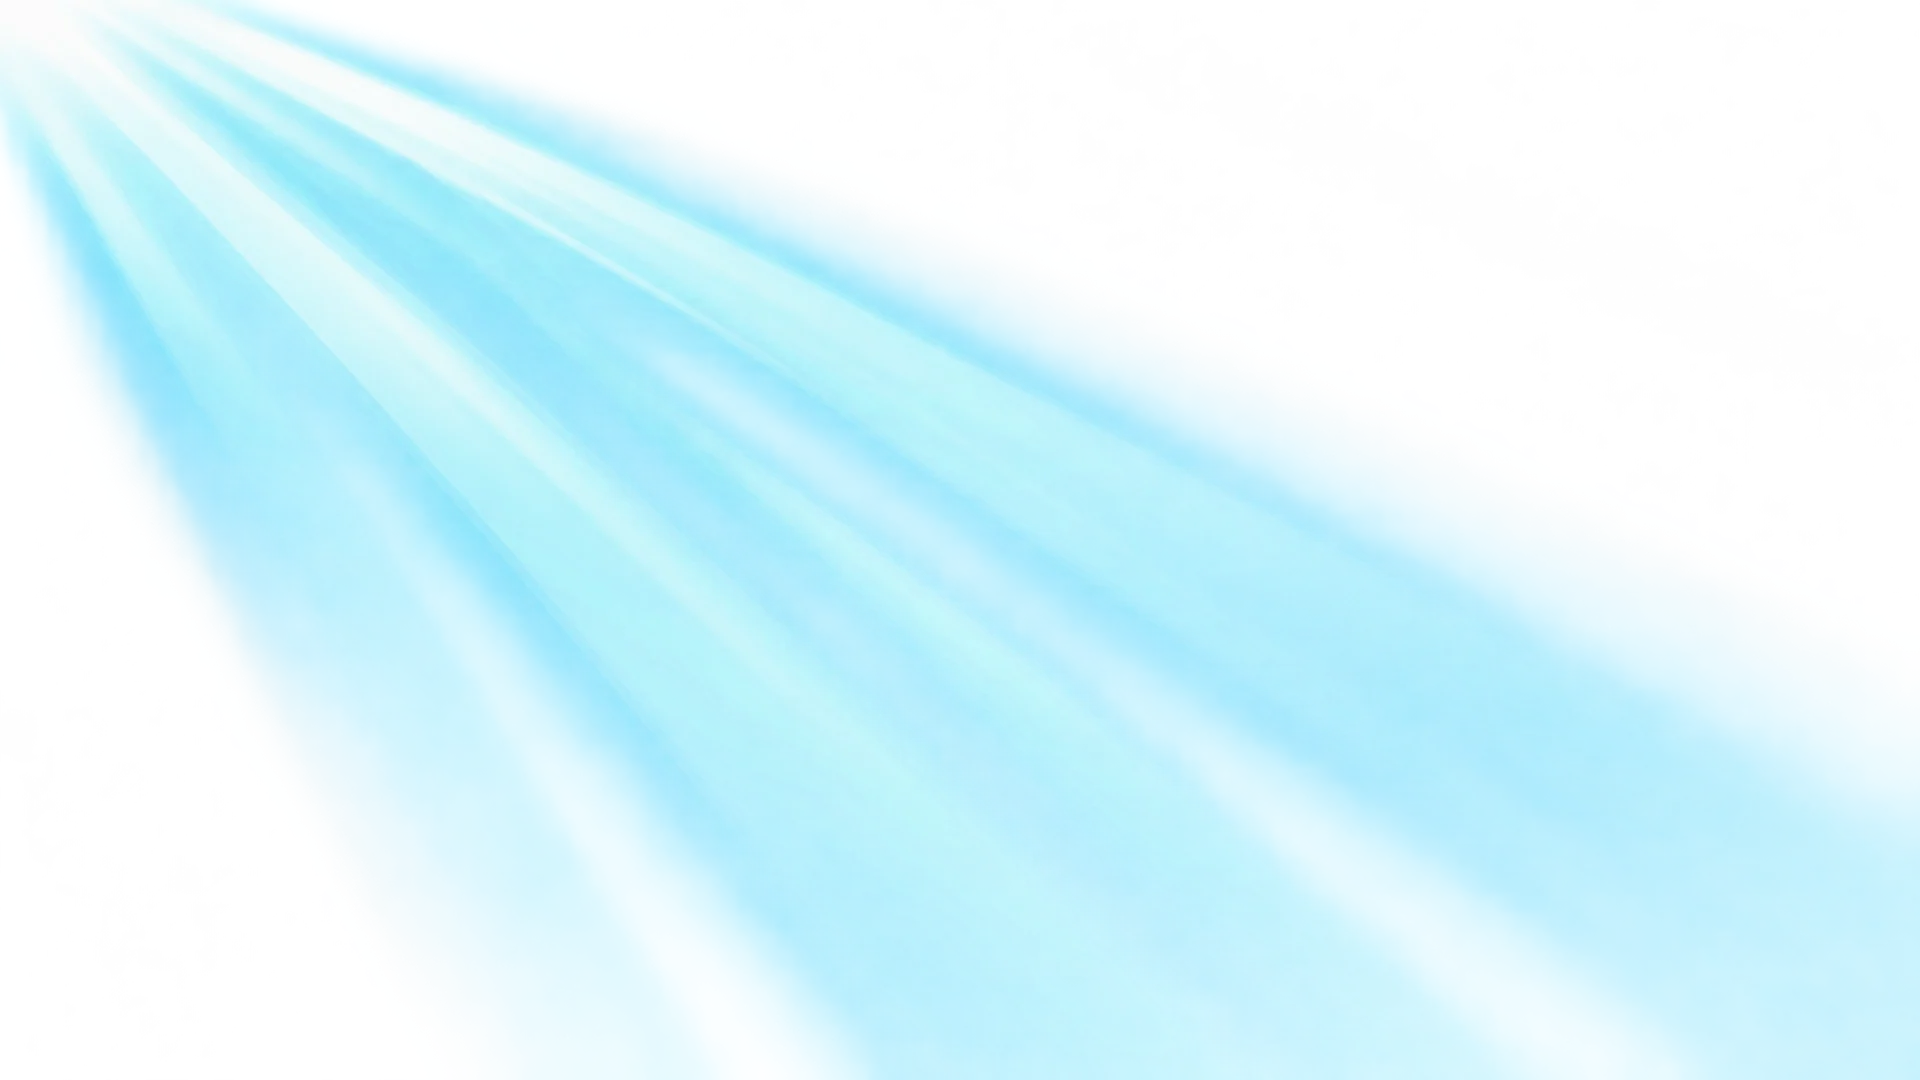
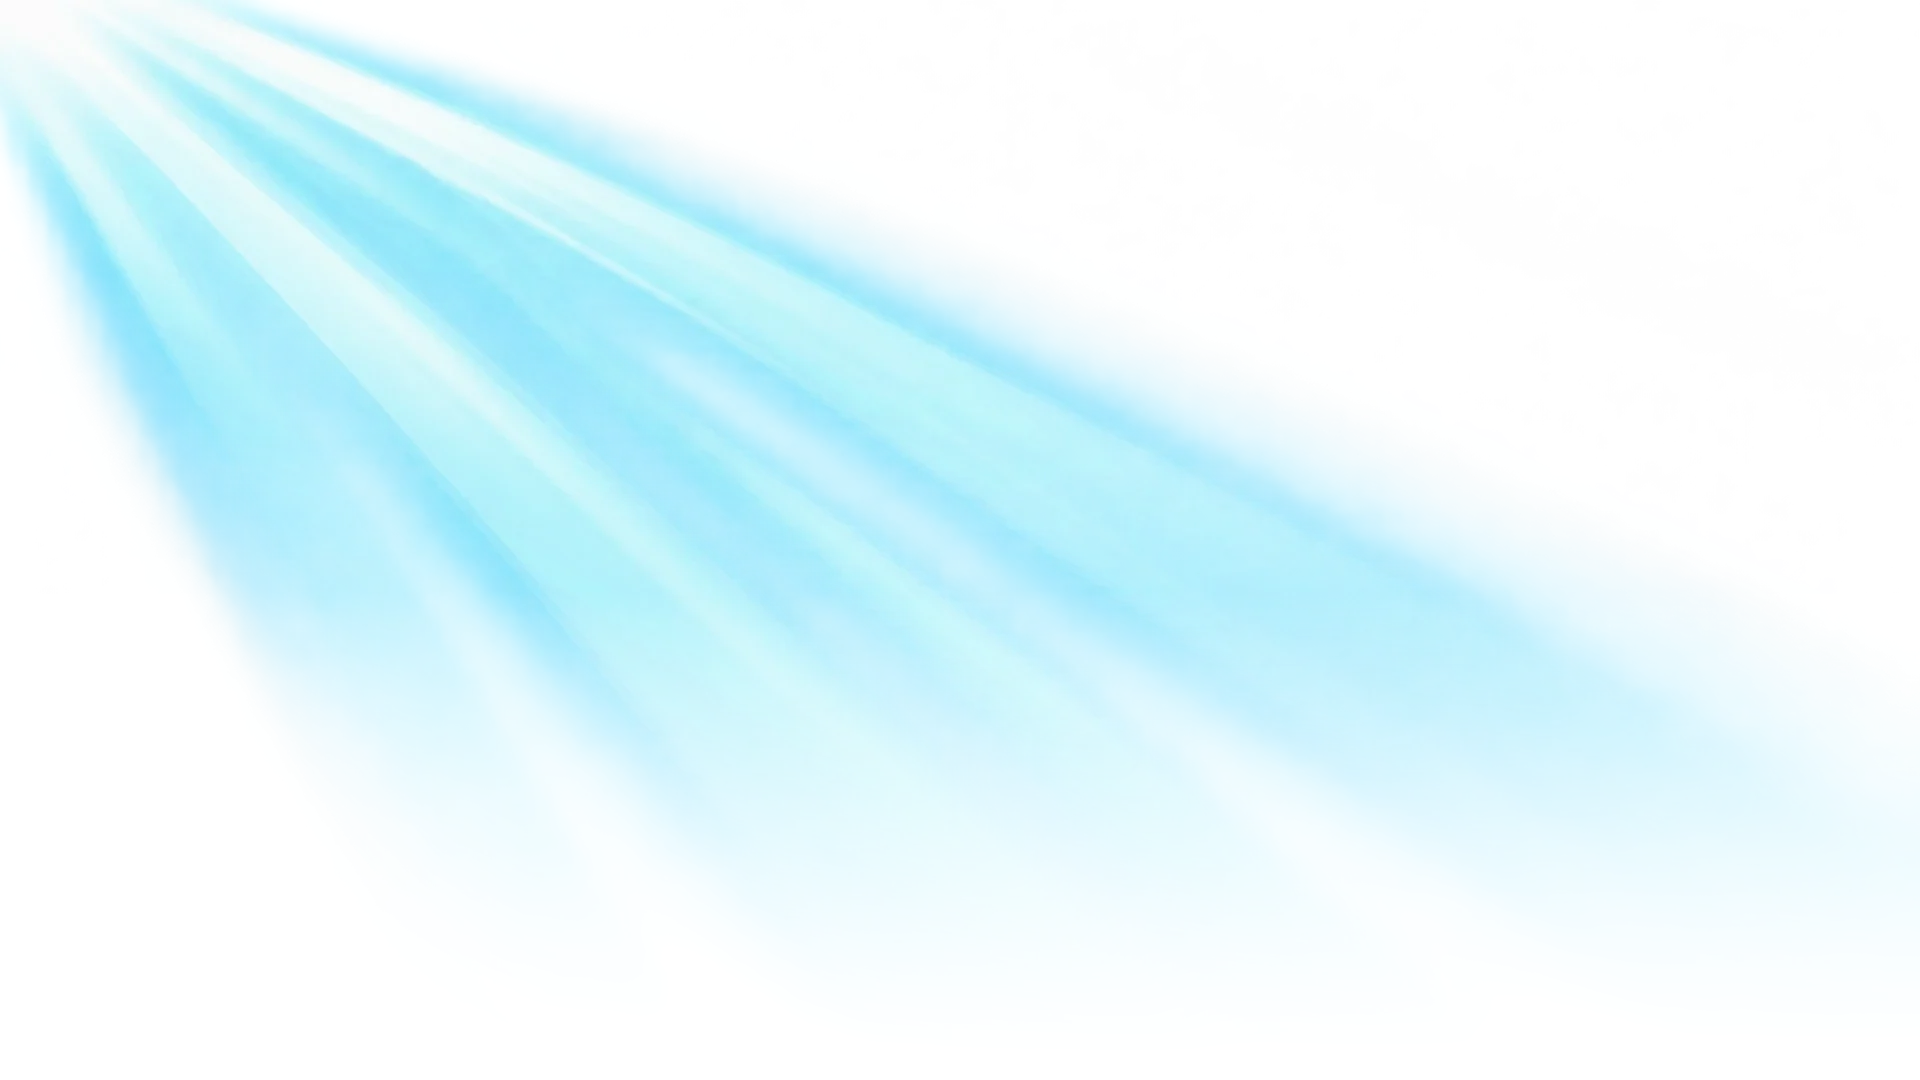
Soften the rays' hard bottom edge; dialogue box 10% smaller
The sun-rays layer ended in a straight line at y 860 once it stopped
blending; its lower 45% now fades out inside rays.webp. The gameplay
dialogue box frame, padding, tail and max width are 10% smaller (text stays
Poppins SemiBold 32).

Changed region(s): [[0.25, 0.6111, 1.0, 1.0]]

diff --git a/css/cockpit.css b/css/cockpit.css
@@ -19,16 +19,16 @@
 #screen::after{content:"";position:absolute;left:426px;top:962px;width:1068px;height:102px;border-radius:22px;
   background:repeating-linear-gradient(rgba(127,242,255,.035) 0 2px,transparent 2px 5px),radial-gradient(120% 140% at 50% 0%,#123b66,#071d38 70%);
   border:3px solid #49dcff;box-shadow:0 0 18px rgba(73,220,255,.55),inset 0 0 26px rgba(73,220,255,.22)}
-.cockpit #comms{left:300px;right:auto;top:auto;bottom:40px;width:auto;height:auto;max-width:1060px}   /* Meera's bubble, beside her (bottom-left) */
+.cockpit #comms{left:300px;right:auto;top:auto;bottom:40px;width:auto;height:auto;max-width:954px}   /* Meera's bubble, beside her (bottom-left) */
 .cockpit #comms.riya{left:auto;right:300px}                                                              /* Riya's, beside her (bottom-right) */
 .cockpit #pName{left:22px;top:-20px;z-index:3;white-space:nowrap;border-radius:12px;padding:6px 18px 4px;border:3px solid #0d3a66;box-shadow:0 3px 0 rgba(0,0,0,.25)}
 .cockpit #comms.riya #pName{left:auto;right:22px;background:#ffc04d;border-color:#a2520c}
 /* gameplay bubbles: the wide glossy box (asset_p09_overlay) as a stretchable frame, text inside; the tail points down at the speaker */
-.cockpit #caption{position:relative;left:0;top:0;max-width:none;min-width:300px;min-height:0;box-sizing:border-box;padding:4px 10px 0;border-radius:0;
-  border:34px solid transparent;border-image:url(../assets/img/bubble_wide.webp) 110 fill / 34px stretch;background:none;box-shadow:none;
+.cockpit #caption{position:relative;left:0;top:0;max-width:none;min-width:270px;min-height:0;box-sizing:border-box;padding:0 8px;border-radius:0;
+  border:28px solid transparent;border-image:url(../assets/img/bubble_wide.webp) 110 fill / 28px stretch;background:none;box-shadow:none;
   color:#0d2c4f;font:600 32px/1.3 Poppins,Baloo,sans-serif;text-align:left;filter:drop-shadow(0 10px 16px rgba(0,10,30,.4))}
 .cockpit #caption::after{display:none}
-.cockpit #comms::after{content:"";position:absolute;left:12px;bottom:-20px;width:43px;height:33px;background:url(../assets/img/bubble_wide_tail_l.webp) center/100% 100% no-repeat}   /* Meera: tail bottom-left */
+.cockpit #comms::after{content:"";position:absolute;left:12px;bottom:-17px;width:39px;height:30px;background:url(../assets/img/bubble_wide_tail_l.webp) center/100% 100% no-repeat}   /* Meera: tail bottom-left */
 .cockpit #comms.riya::after{left:auto;right:12px;background-image:url(../assets/img/bubble_wide_tail.webp)}                                  /* Riya: tail bottom-right */
 
 /* Meera (left) and Riya (right) at their stations, in front of the console; the speaker lights up */
